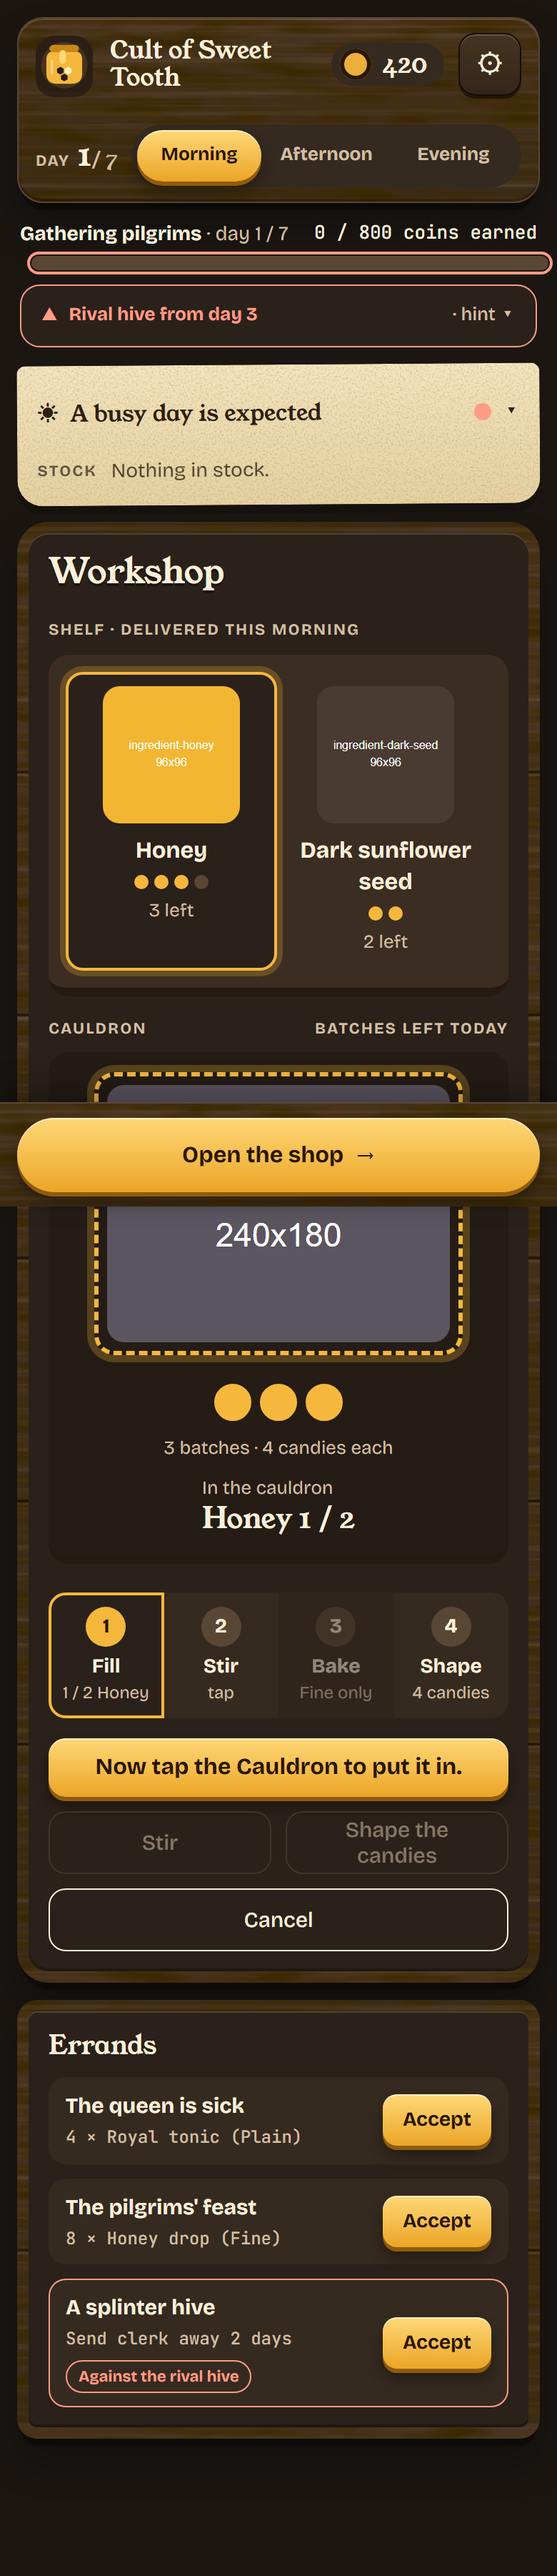
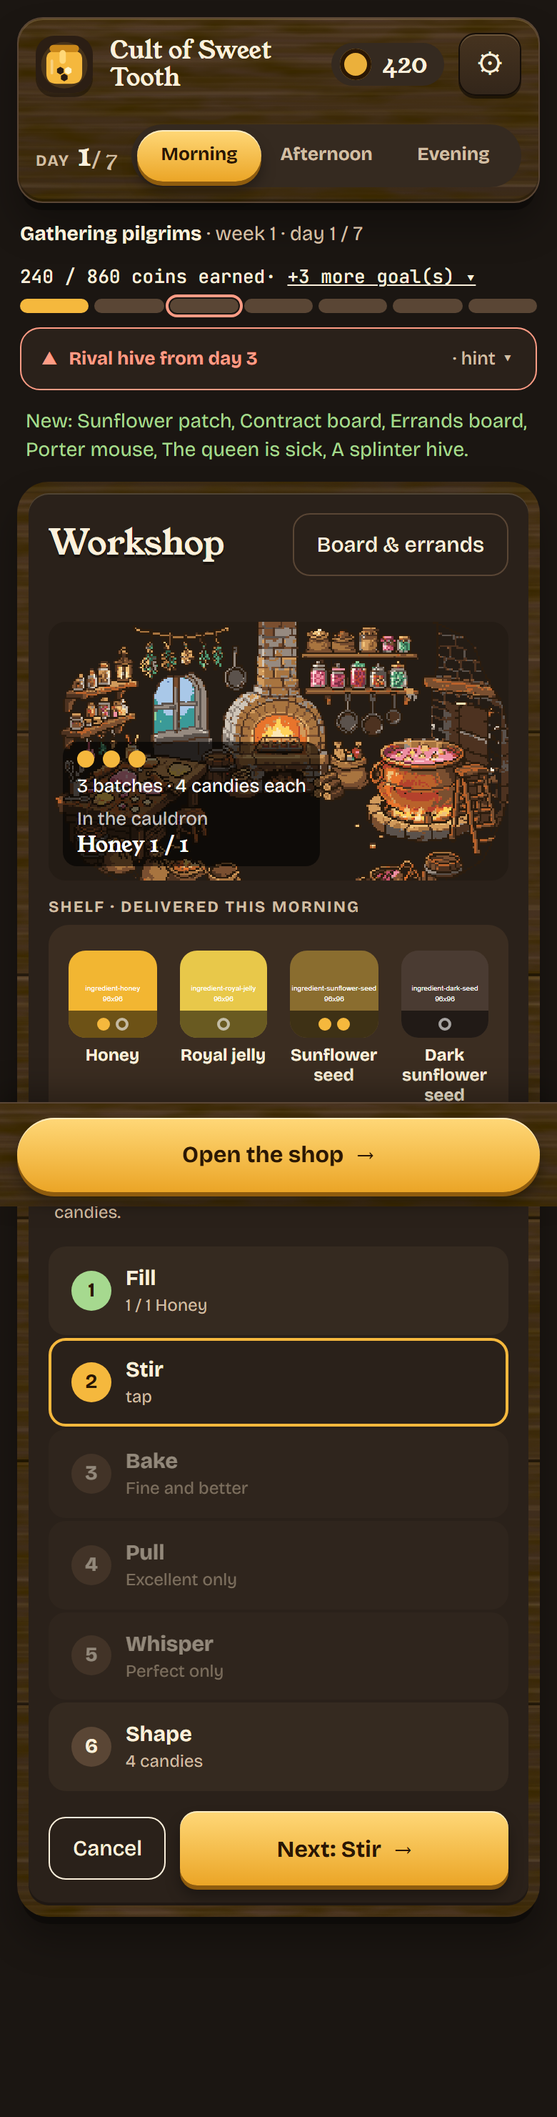
chore: fix the counter maximum, phone footer and queue list, regenerate the design brief screenshots and catalog

diff --git a/scripts/screenshots.ts b/scripts/screenshots.ts
@@ -84,35 +84,23 @@ const wait = (ms) => new Promise((r) => setTimeout(r, ms));
 const btn = (re) => [...document.querySelectorAll('button')].find((b) => re.test(b.textContent.trim()));
 const click = async (re, ms = 120) => { const b = btn(re); if (!b) throw new Error('no button ' + re); b.click(); await wait(ms); };
 const images = async () => { for (let i = 0; i < 40; i++) { if ([...document.images].every((m) => m.complete)) return; await wait(100); } };
-const craftBatch = async (quality) => {
-  if (quality) { const q = [...document.querySelectorAll('.workshop .seg .opt')].find((o) => o.textContent.toLowerCase().startsWith(quality)); q.click(); await wait(60); }
-  await click(/^Start batch$/);
-  const st = document.querySelector('button.cauldron');
-  for (let i = 0; i < 12; i++) {
-    const open = [...document.querySelectorAll('.inside b')].find((x) => { const m = x.textContent.match(/(\\d+) \\/ (\\d+)$/); return m && +m[1] < +m[2]; });
-    if (!open) break;
-    const name = open.textContent.replace(/ \\d+ \\/ \\d+$/, '');
-    [...document.querySelectorAll('button.tile')].find((b) => b.textContent.includes(name)).click(); await wait(40);
-    st.click(); await wait(40);
-  }
-  for (let i = 0; i < 6; i++) {
-    if (!document.querySelector('.bench')) break; // the batch is finished and the form is back
-    const next = [...document.querySelectorAll('.workshop .actions button.btn3')].find((b) => !b.disabled && !b.classList.contains('cancel'));
-    if (!next) break; next.click(); await wait(70);
-  }
+// A phase change plays a short overlay (the shop sign, the night sky): wait it out so it is not in the picture.
+const openShop = () => click(/Open the shop/, 2800);
+const closeShop = () => click(/Close the shop/, 2800);
+const sleepNow = () => click(/Go to sleep/, 4600);
+const endDay = async () => { await openShop(); await closeShop(); await sleepNow(); };
+// With every helper hired a batch plays on the scene (about a second per step): wait until Start is available again.
+const craftBatch = async () => {
+  await click(/^Start batch$/, 300);
+  for (let i = 0; i < 80; i++) { const b = btn(/^(Start batch|Make another)/); if (b && !b.disabled) return; await wait(100); }
 };
-const openShop = () => click(/Open the shop/, 300);
-const closeShop = () => click(/Close the shop/, 300);
-const clerkOn = async () => { const c = document.querySelector('.rail input[role=switch]'); if (c && !c.checked) { c.click(); await wait(200); } };
-const serveOne = async () => { const b = [...document.querySelectorAll('.cust button')].find((x) => /^Serve/.test(x.textContent.trim()) && !x.disabled); if (b) { b.click(); await wait(150); } };
-const buy = async (name) => { const n = [...document.querySelectorAll('.node')].find((x) => x.querySelector('.nhead b').textContent.trim() === name); const b = n && n.querySelector('.buy:not([disabled])'); if (b) { b.click(); await wait(120); } };
-const endDay = async () => { await click(/Open the shop/, 200); await click(/Close the shop/, 200); await click(/Go to sleep/, 200); };
 const settings = async () => { document.querySelector('button[aria-label=Settings]').click(); await wait(200); };
+const drawer = async () => { await click(/Board & errands/, 400); };
 `;
 
+// The first days are played by hand; the late game is a developer end-game shop (every upgrade, quest and helper).
 const RICH = '?seed=11&stage=2&money=420&unlocks=oven,clerk,errandsBoard,map,contractBoard,sunflower,dark-garden,royal-jelly';
-const AFTERNOON = `await craftBatch(); await craftBatch(); await openShop(); await clerkOn(); await serveOne();`;
-const EVENING = `${AFTERNOON} await closeShop(); await buy('Honey yield'); await buy('Honey yield'); await buy('Counter space'); await buy('Faithful'); await buy('Patience');`;
+const END = '?endgame=1';
 
 interface Scenario {
   name: string;
@@ -120,15 +108,18 @@ interface Scenario {
   steps: string;
 }
 const SCENARIOS: Scenario[] = [
-  { name: '01-morning-craft-form', query: RICH, steps: '' },
-  { name: '02-morning-craft-bench', query: RICH, steps: `await click(/^Start batch$/); document.querySelector('button.tile').click(); await wait(80); document.querySelector('button.cauldron').click(); await wait(100);` },
-  { name: '03-afternoon-serve', query: RICH, steps: AFTERNOON },
-  { name: '04-evening-tree-and-report', query: RICH, steps: EVENING },
-  { name: '05-settings', query: RICH, steps: `${EVENING} await settings();` },
-  { name: '06-first-day-morning', query: '?seed=3', steps: '' },
-  { name: '07-first-day-afternoon', query: '?seed=3', steps: `await craftBatch(); await openShop();` },
-  { name: '08-rival-active-morning', query: RICH, steps: `await endDay(); await endDay();` },
-  { name: '09-final-stage-cleared', query: '?seed=5&stage=3&completed=1&money=50&unlocks=oven,clerk,errandsBoard,map', steps: '' },
+  { name: '01-morning-workshop', query: END, steps: '' },
+  { name: '02-morning-craft-bench', query: RICH, steps: `await click(/^Start batch$/); document.querySelector('button.tile').click(); await wait(80);` },
+  { name: '03-afternoon-counter', query: END, steps: `await openShop();` },
+  { name: '04-afternoon-order-open', query: END, steps: `await openShop(); document.querySelector('.list .who').click(); await wait(300);` },
+  { name: '05-evening-tree-and-report', query: END, steps: `await openShop(); await closeShop();` },
+  { name: '06-settings', query: END, steps: `await settings();` },
+  { name: '07-first-day-morning', query: '?seed=3', steps: '' },
+  { name: '08-first-day-afternoon', query: '?seed=3', steps: `await openShop();` },
+  { name: '09-rival-active-morning', query: RICH, steps: `await endDay(); await endDay();` },
+  { name: '10-final-stage-cleared', query: '?seed=5&stage=3&completed=1&money=50&unlocks=oven,clerk,errandsBoard,map', steps: '' },
+  { name: '11-board-drawer', query: END, steps: `await drawer();` },
+  { name: '12-routine-switches', query: END, steps: `await click(/Accounting/, 150); await click(/Auto sleep/, 150);` },
 ];
 
 interface Variant {
@@ -143,8 +134,8 @@ interface Variant {
 }
 const VARIANTS: Variant[] = [
   { dir: 'desktop-dark', width: 1200, height: 800, scale: 1, mobile: false, scheme: 'dark' },
-  { dir: 'desktop-light', width: 1200, height: 800, scale: 1, mobile: false, scheme: 'light', only: ['01-morning-craft-form', '03-afternoon-serve', '04-evening-tree-and-report'] },
-  { dir: 'mobile-dark', width: 390, height: 844, scale: 2, mobile: true, scheme: 'dark', only: ['01-morning-craft-form', '02-morning-craft-bench', '03-afternoon-serve', '04-evening-tree-and-report', '05-settings'] },
+  { dir: 'desktop-light', width: 1200, height: 800, scale: 1, mobile: false, scheme: 'light', only: ['01-morning-workshop', '03-afternoon-counter', '05-evening-tree-and-report'] },
+  { dir: 'mobile-dark', width: 390, height: 844, scale: 2, mobile: true, scheme: 'dark', only: ['01-morning-workshop', '02-morning-craft-bench', '03-afternoon-counter', '04-afternoon-order-open', '05-evening-tree-and-report', '11-board-drawer', '12-routine-switches'] },
 ];
 
 // ----------------------------------------------------------------------------- run

diff --git a/src/ui/App.svelte b/src/ui/App.svelte
@@ -102,9 +102,15 @@
   }
   @media (max-width: 640px) {
     main { padding: 12px 12px 24px; gap: 12px; }
-    main.bar { padding-bottom: calc(96px + env(safe-area-inset-bottom)); }
-    .actionbar .btn { flex: 1; }
-    .routine { padding: 4px 12px 4px 8px; min-height: 44px; }
+    main.bar { padding-bottom: calc(140px + env(safe-area-inset-bottom)); }
+    .actionbar .btn { flex: 1 1 100%; }
+    /* Three switches share one row above the phase button: just the names, a small switch each. */
+    .routine { flex: 1 1 0; min-width: 0; gap: 6px; padding: 4px 8px 4px 6px; min-height: 44px; }
     .routine .status { display: none; }
+    .routine .switch { width: 28px; height: 16px; border-radius: 8px; }
+    .routine .knob { top: 2px; left: 2px; width: 12px; height: 12px; }
+    .routine.on .knob { transform: translateX(12px); }
+    .txt b { font-size: 13px; line-height: 1.15; white-space: nowrap; overflow: hidden; text-overflow: ellipsis; }
+    .txt { min-width: 0; align-items: flex-start; text-align: left; }
   }
 </style>

diff --git a/src/view/serve.ts b/src/view/serve.ts
@@ -215,7 +215,7 @@ export function buildServeView(c: Content, s: State, t: Translate, feed: GameEve
     title: t('serve.title'),
     rating: { value: s.rating, text: t('rating.line', { n: Math.round(s.rating), pct: `${pct > 0 ? '+' : pct < 0 ? '−' : '±'}${Math.abs(pct)}` }) },
     summary: [
-      t('serve.waiting', { n: s.queue.length, max: c.settings.counterSpace }),
+      t('serve.waiting', { n: s.queue.length, max: c.settings.counterSpace + modifier(c, s, 'counterSpace') }),
       t('serve.today', { served: s.report.served, lost: s.report.lost, revenue: s.report.revenue }),
     ].join(' · '),
     customers,

diff --git a/src/ui/Serve.svelte b/src/ui/Serve.svelte
@@ -155,7 +155,7 @@
   @media (max-width: 640px) {
     .top { grid-template-columns: minmax(0, 1fr); }
     .listcol { min-height: 0; }
-    .listcol > :global(*) { position: static; }
+    .listcol > :global(*) { position: static; max-height: 440px; }
     .drawer { top: auto; left: 0; width: auto; max-height: 85vh; border-radius: 16px 16px 0 0; animation-name: rise; }
     @keyframes rise { from { transform: translateY(100%); } }
   }

diff --git a/src/ui/QueueList.svelte b/src/ui/QueueList.svelte
@@ -93,7 +93,7 @@
   @media (max-width: 640px) {
     .line { grid-template-columns: minmax(0, 1fr) auto auto; }
     .pat { grid-column: 1 / 3; grid-row: 2; }
-    .serve { grid-column: 3; grid-row: 1 / 3; }
+    .serve { grid-column: 3; grid-row: 1 / 3; min-height: 44px; }
     .pay { grid-column: 2; grid-row: 1; }
   }
 </style>
